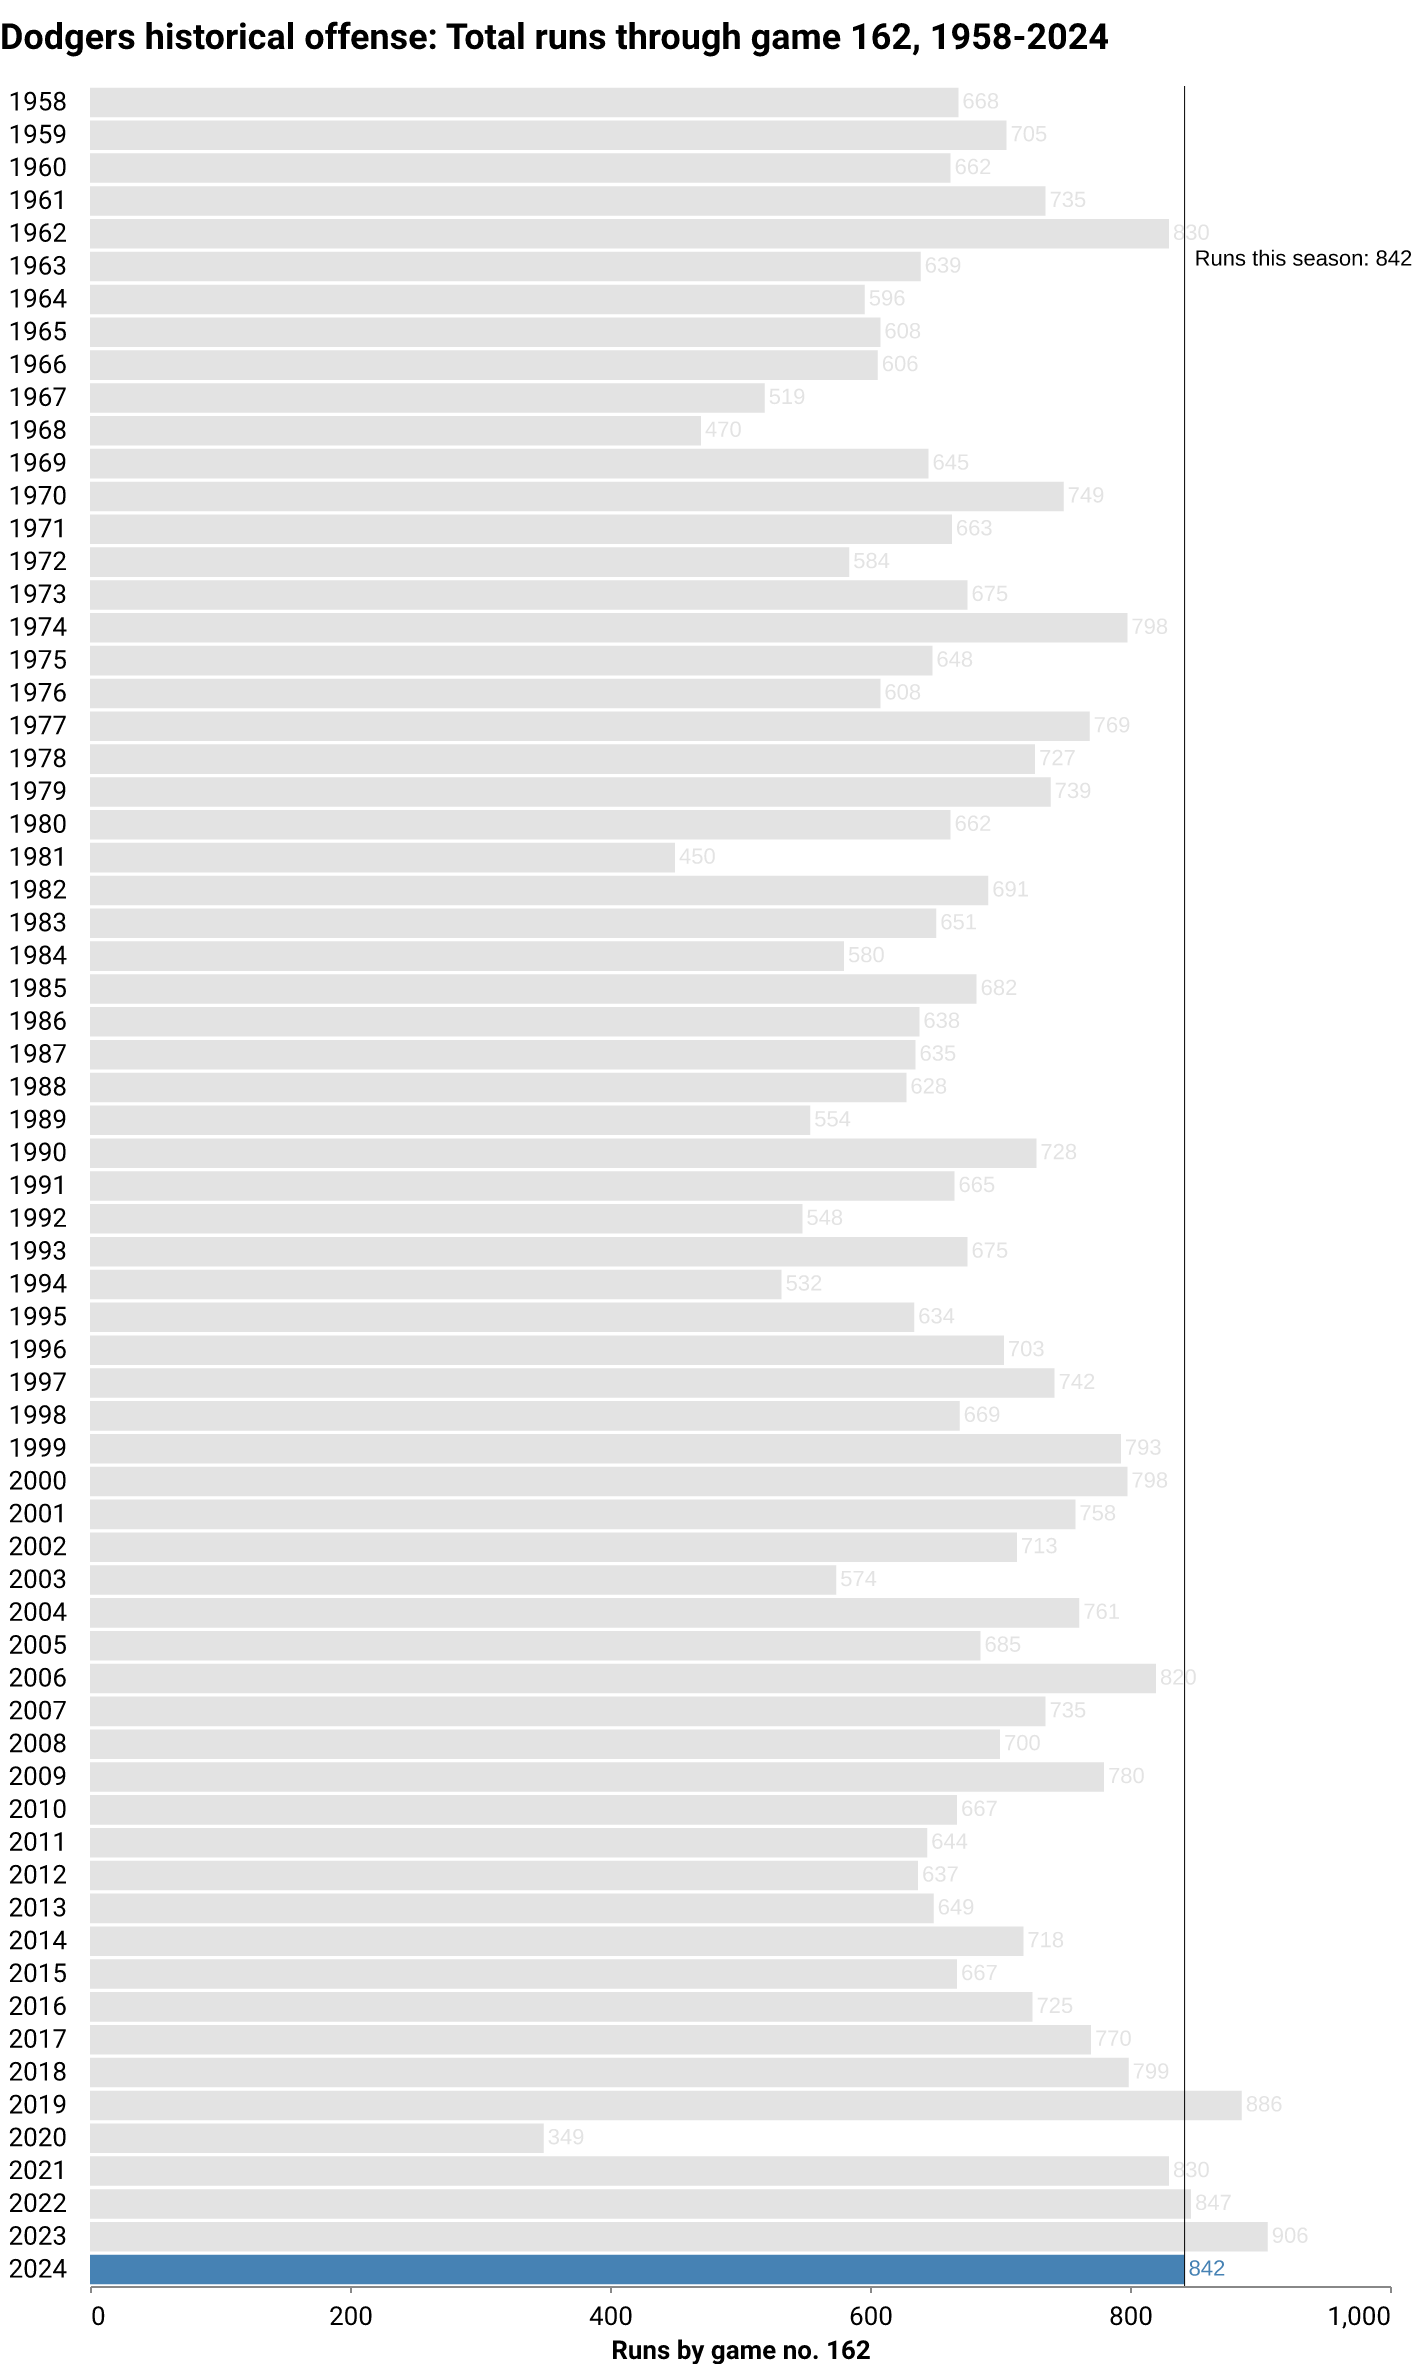
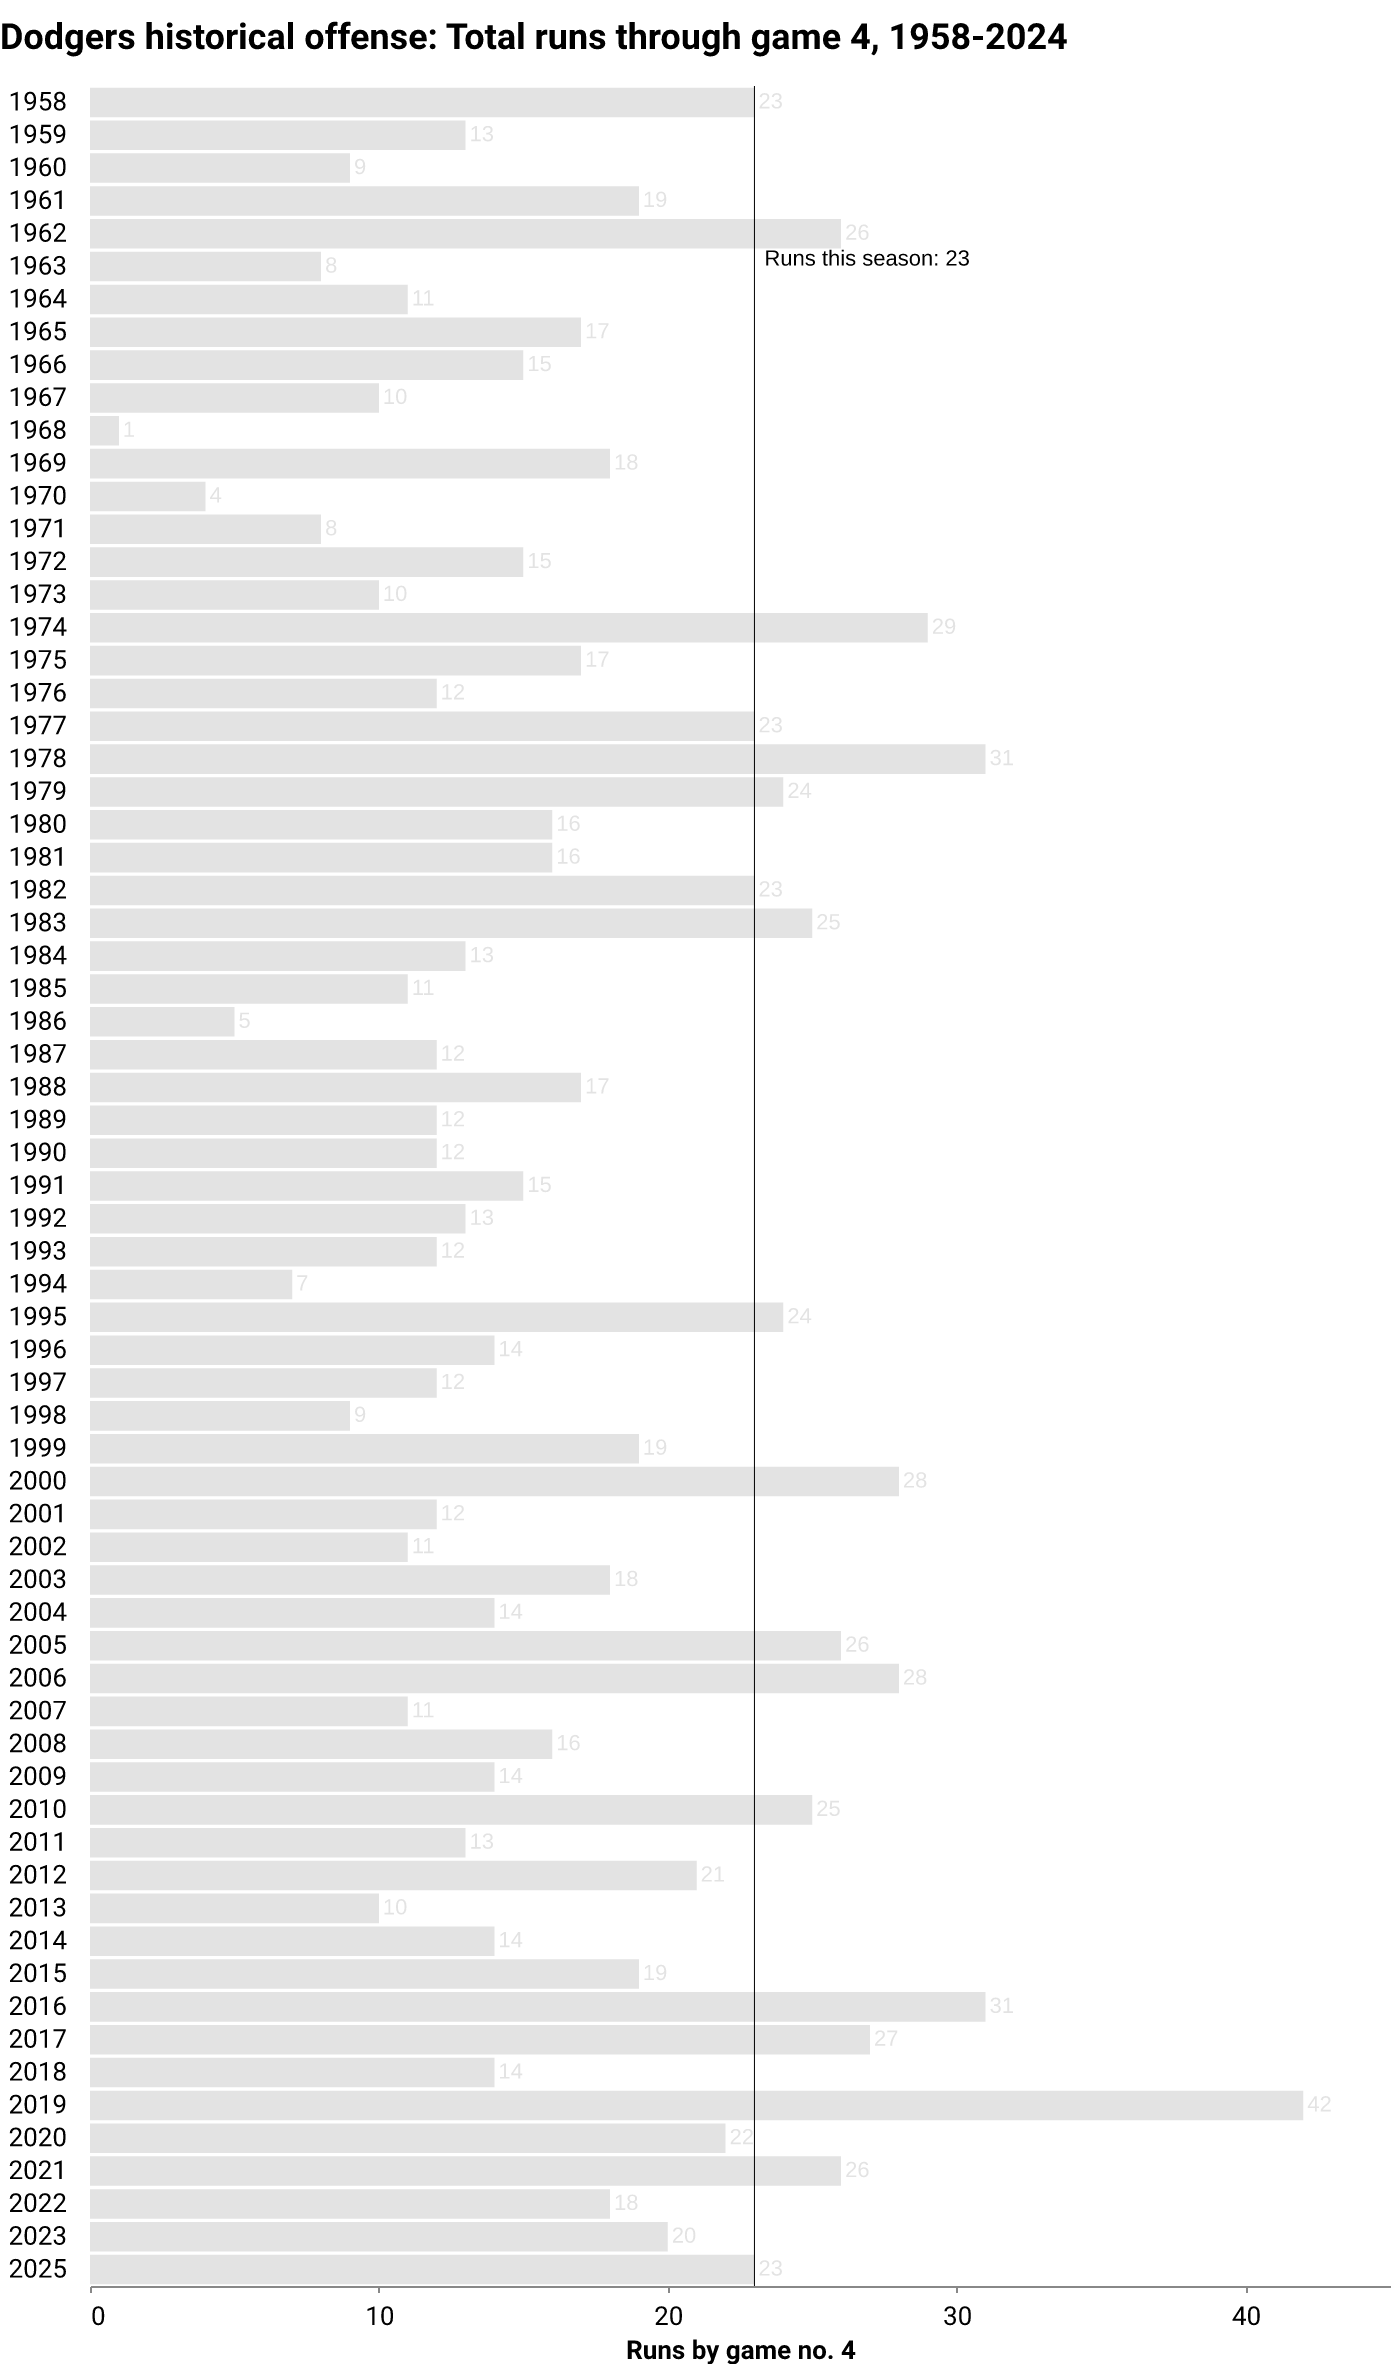
deploy: 8c2a71d6ea3283117a0babb675031d50fa966e70

diff --git a/index.html b/index.html
@@ -184,7 +184,7 @@
 <p class="subhead">
     
     
-    <span class="highlight">LOS ANGELES</span> <span class="updated">(Oct. 30, 2024)</span> — After <span class="highlight">162</span> games this season, the Dodgers finished in <span class="highlight">1st</span> place in the National League West division. The team compiled a <span class="highlight">98-64</span> record in the regular season, winning <span class="highlight">60%</span> of its games. The Dodgers finished the season by defeating the New York Yankees in the World Series.
+    <span class="highlight">LOS ANGELES</span> <span class="updated">(March 29)</span> — After <span class="highlight">4</span> games this season, the Dodgers are in <span class="highlight">1st</span> place in the National League West division. The team has compiled a <span class="highlight">4-0</span> record, winning <span class="highlight">100%</span> of its games so far. The last game was a <span class="highlight">8-5</span> home <span class="highlight">win</span> against the Detroit Tigers in front of <span class="highlight">52,029</span> fans. They've won <span class="highlight">4 of the last 10</span>.
 </p>
 </div>
 
@@ -206,10 +206,10 @@
             Wins
           </div>
           <div class="card-body">
-            <p class="card-text">98</p>
+            <p class="card-text">4</p>
           </div>
           <div class="card-footer text-muted">
-        This point last season: 100
+        This point last season: 4
           </div>
         </div>
       </div>
@@ -222,10 +222,10 @@
             Losses
           </div>
           <div class="card-body">
-            <p class="card-text">64</p>
+            <p class="card-text">0</p>
           </div>
           <div class="card-footer text-muted">
-        This point last season: 62
+        This point last season: 0
           </div>
         </div>
       </div>
@@ -238,10 +238,10 @@
             Record
           </div>
           <div class="card-body">
-            <p class="card-text">98-64</p>
+            <p class="card-text">4-0</p>
           </div>
           <div class="card-footer text-muted">
-        This point last season: 100-62
+        This point last season: 4-0
           </div>
         </div>
       </div>
@@ -254,10 +254,10 @@
             Win percentage
           </div>
           <div class="card-body">
-            <p class="card-text">60%</p>
+            <p class="card-text">100%</p>
           </div>
           <div class="card-footer text-muted">
-        This point last season: 62%
+        This point last season: 100%
           </div>
         </div>
       </div>
@@ -270,7 +270,7 @@
             Games up/back
           </div>
           <div class="card-body">
-            <p class="card-text">5.0</p>
+            <p class="card-text">1.0</p>
           </div>
           <div class="card-footer text-muted">
         Division rank: 1
@@ -286,10 +286,10 @@
             Avg. home attendance
           </div>
           <div class="card-body">
-            <p class="card-text">48,657</p>
+            <p class="card-text">52,812</p>
           </div>
           <div class="card-footer text-muted">
-        Home games this season: 81
+        Home games this season: 2
           </div>
         </div>
       </div>
@@ -302,10 +302,10 @@
             Runs
           </div>
           <div class="card-body">
-            <p class="card-text">842</p>
+            <p class="card-text">23</p>
           </div>
           <div class="card-footer text-muted">
-        League rank: 2
+        League rank: 
           </div>
         </div>
       </div>
@@ -318,10 +318,10 @@
             Runs against
           </div>
           <div class="card-body">
-            <p class="card-text">686</p>
+            <p class="card-text">13</p>
           </div>
           <div class="card-footer text-muted">
-        This point last season: 699
+        This point last season: 0
           </div>
         </div>
       </div>
@@ -334,10 +334,10 @@
             Run differential
           </div>
           <div class="card-body">
-            <p class="card-text">156</p>
+            <p class="card-text">10</p>
           </div>
           <div class="card-footer text-muted">
-        This point last season: 207
+        This point last season: 0
           </div>
         </div>
       </div>
@@ -408,7 +408,7 @@
             Batting average
           </div>
           <div class="card-body">
-            <p class="card-text">.258</p>
+            <p class="card-text">.223</p>
           </div>
           <div class="card-footer text-muted">
         Last decade average: .253
@@ -424,10 +424,10 @@
             Home runs
           </div>
           <div class="card-body">
-            <p class="card-text">233</p>
+            <p class="card-text">9</p>
           </div>
           <div class="card-footer text-muted">
-        League rank: 1
+        League rank: 
           </div>
         </div>
       </div>
@@ -440,7 +440,7 @@
             Home runs/game
           </div>
           <div class="card-body">
-            <p class="card-text">1.44</p>
+            <p class="card-text">2.25</p>
           </div>
           <div class="card-footer text-muted">
         Last decade average: 1.36
@@ -456,7 +456,7 @@
             On-base percentage
           </div>
           <div class="card-body">
-            <p class="card-text">.335</p>
+            <p class="card-text">.320</p>
           </div>
           <div class="card-footer text-muted">
         Last decade average: .332
@@ -472,10 +472,10 @@
             Stolen bases
           </div>
           <div class="card-body">
-            <p class="card-text">136</p>
+            <p class="card-text">0</p>
           </div>
           <div class="card-footer text-muted">
-        League rank: 6
+        League rank: 
           </div>
         </div>
       </div>
@@ -488,7 +488,7 @@
             Stolen bases/game
           </div>
           <div class="card-body">
-            <p class="card-text">0.84</p>
+            <p class="card-text">0.0</p>
           </div>
           <div class="card-footer text-muted">
         Rate all last season: 0.65
@@ -605,10 +605,10 @@
             Strikeouts
           </div>
           <div class="card-body">
-            <p class="card-text">1390</p>
+            <p class="card-text">46</p>
           </div>
           <div class="card-footer text-muted">
-        League rank: 6
+        League rank: 
           </div>
         </div>
       </div>
@@ -621,10 +621,10 @@
             Walks
           </div>
           <div class="card-body">
-            <p class="card-text">501</p>
+            <p class="card-text">19</p>
           </div>
           <div class="card-footer text-muted">
-        League rank: 10
+        League rank: 
           </div>
         </div>
       </div>
@@ -637,10 +637,10 @@
             ERA
           </div>
           <div class="card-body">
-            <p class="card-text">3.90</p>
+            <p class="card-text">2.92</p>
           </div>
           <div class="card-footer text-muted">
-        League rank: 6
+        League rank: 
           </div>
         </div>
       </div>
@@ -716,7 +716,7 @@
     </div>
 </div>
 
-  <p class="dated">Notes: Last updated March 29, 2025, 2:04 PM PT. More <a href="https://github.com/stiles/dodgers/blob/main/README.md">about the data</a>.</p>
+  <p class="dated">Notes: Last updated March 29, 2025, 7:05 PM PT. More <a href="https://github.com/stiles/dodgers/blob/main/README.md">about the data</a>.</p>
   
 </div>
 
